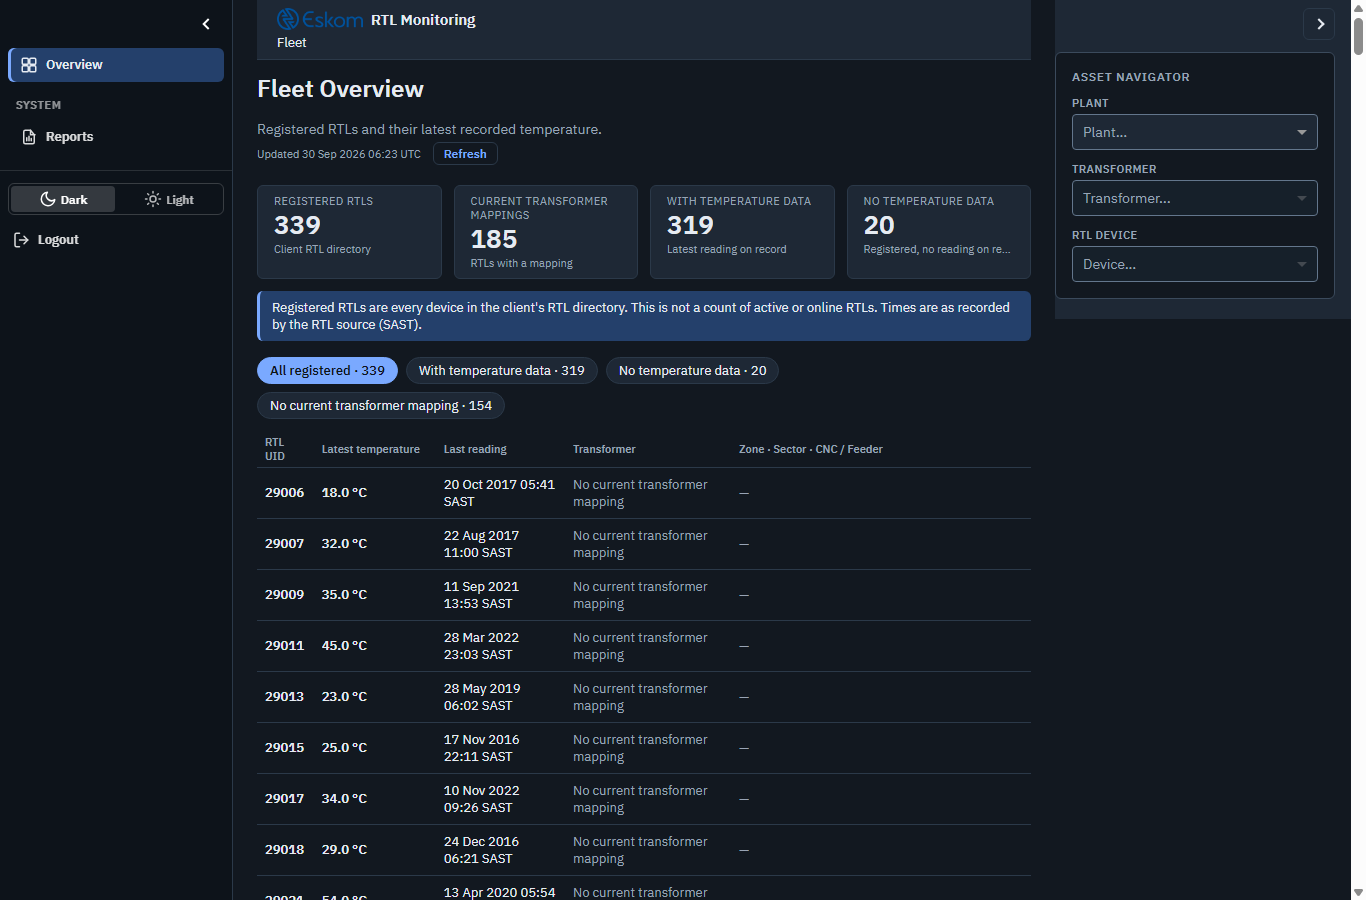
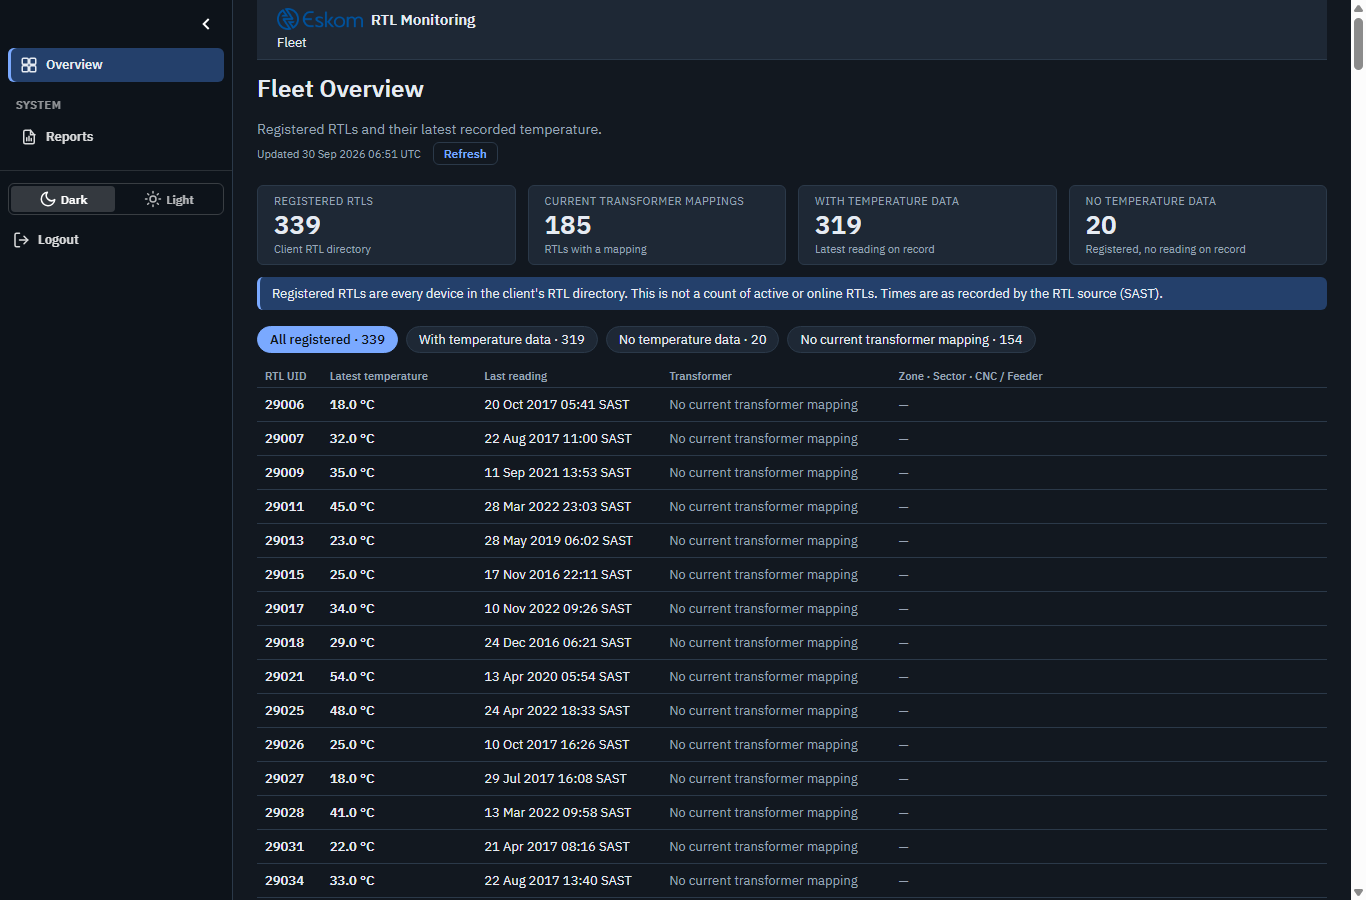
docs(fleet): close real RTL fleet acceptance

Changed region(s): [[0.1845, 0.1244, 0.9839, 1.0], [0.7687, 0.0622, 0.8917, 0.1244], [0.9839, 0.0622, 1.0, 0.0933]]

diff --git a/docs/audit/saturday-real-fleet-01/FLEET_ACCEPTANCE.md b/docs/audit/saturday-real-fleet-01/FLEET_ACCEPTANCE.md
@@ -3,6 +3,16 @@
 Date: 2026-09-30 · Baseline `d0ff59e` · Viewport 1366×900 · Local app against the
 restored client `RTL` SQL Server (`rtl_app_reader`, SELECT only).
 
+## Correction note (closure re-run)
+
+The first commit of this note (`eec92e4`) shipped `fleet-1366-general.png`
+captured BEFORE the Asset Navigator was hidden on `/plants`; that screenshot
+still showed the synthetic Plant / Transformer / Device navigator and so
+contradicted the note and the code. It was stale. The closure re-run below was
+performed on `eec92e4` code (fresh app process, General User, 1366×900) and the
+screenshot was replaced. The other three screenshots were captured after the
+navigator fix and are unchanged.
+
 ## What the page shows
 
 `/plants` (route unchanged) lists the registered client RTL directory:
@@ -29,6 +39,16 @@ metrics. Source times are naive SAST values shown unconverted.
 | No current transformer mapping | 154 | 154 |
 | Mapped RTLs with hierarchy unavailable | 7 (service) | 7 |
 | Ambiguous latest temperatures | 0 | 0 in current snapshot |
+
+Closure re-run (commit `eec92e4`, General User `demo.general01`, 1366×900):
+339 table rows; cards 339 / 185 / 319 / 20; chips All 339 · With temperature 319
+· No temperature data 20 · No current transformer mapping 154; 20 rows read
+"No temperature data" and 154 read "No current transformer mapping"; the
+utility column (Asset Navigator) is hidden; forbidden-word scan (plant, voltage,
+current, active/reactive power, power factor, frequency, energy, offline, null,
+undefined, NaN) found nothing; "online" occurs once, only in the negating note
+"This is not a count of active or online RTLs."; no email/phone/password/API-key
+patterns in any row; browser console 0 errors (1 pre-existing warning).
 
 Fleet load time: ~0.4 s (4 SELECT round trips; latest read batched).
 
@@ -67,6 +87,17 @@ Rationale: there is no approved raw-client-UID-to-technician-assignment map
 - Counts unchanged: `master_temperature` 2,456,901 · telemetry UIDs 400 ·
   `device_list` 339 · `trfr_list` 185.
 - No PostgreSQL schema, Alembic or seed change.
+
+## Regression (closure run)
+
+`python -m pytest -m "not db"` → **3221 passed, 3 skipped, 0 failed, 731
+deselected** in 34.73 s (3,224 selected). Focused fleet/route/colour suites: 105
+passed.
+
+Seven DB-marked PostgreSQL tests (`test_seed_integrity` ×5,
+`test_plant_monitoring_repository` range ×2) fail on local simulator/data drift
+(1,551,454 `readings` rows vs the 1,383,360 seed). Independently classified as
+unrelated to this gate; PostgreSQL was deliberately not reseeded or modified.
 
 ## Deferred (not in this gate)
 

diff --git a/docs/context/CURRENT_STATE.md b/docs/context/CURRENT_STATE.md
@@ -1,7 +1,7 @@
 # Current State
 
 Status: generated
-Date: 2026-09-30T06:27:48Z
+Date: 2026-09-30T06:53:13Z
 
 Regenerate with `python scripts/build_context_pack.py`. Never hand-edit —
 every fact here is derived from git, the test suite, and docs/decisions/.
@@ -12,12 +12,12 @@ Before any work involving the client RTL SQL Server, read `docs/database/CLIENT_
 
 ## Baseline
 
-- `main` = `d0ff59e` "docs(database): consolidate client SQL Server evidence"
-- Working tree: 16 entries — see below
+- `main` = `eec92e4` "feat(fleet): integrate real RTL fleet overview"
+- Working tree: 7 entries — see below
 
 ## Test baseline
 
-- `python -m pytest -m "not db"` → 3221 passed, 3 skipped, 731 deselected in 34.72s
+- `python -m pytest -m "not db"` → 3221 passed, 3 skipped, 731 deselected in 35.03s
 
 ## Branches
 
@@ -71,9 +71,9 @@ Diverged from `main` (has commits `main` doesn't):
 
 | Branch | Unique commits | Behind main | Note |
 |---|---|---|---|
-| `cc-1-command-center-progress` | 15 | 481 | REVIEW — unexpected divergence |
-| `client-demo-1` | 7 | 331 | expected — delivery branch, see docs/CLIENT_DELIVERY.md |
-| `client-release` | 12 | 481 | expected — delivery branch, see docs/CLIENT_DELIVERY.md |
+| `cc-1-command-center-progress` | 15 | 482 | REVIEW — unexpected divergence |
+| `client-demo-1` | 7 | 332 | expected — delivery branch, see docs/CLIENT_DELIVERY.md |
+| `client-release` | 12 | 482 | expected — delivery branch, see docs/CLIENT_DELIVERY.md |
 
 ## Decisions
 
@@ -119,20 +119,11 @@ SATURDAY-REAL-FLEET-01 — Real RTL Fleet Overview — full detail in `docs/cont
 
 ```
 D "DEM-2788838 Digital Incubator - RTL PAD  v0.7.pdf"
- M callbacks/fleet_overview.py
- M callbacks/navigation.py
+ M docs/audit/saturday-real-fleet-01/FLEET_ACCEPTANCE.md
+ M docs/audit/saturday-real-fleet-01/fleet-1366-general.png
  M docs/context/ACTIVE_GATE.md
- M pages/plants_overview.py
- M repositories/rtl_temperature_repository.py
- M tests/test_fleet_overview_page.py
- M tests/test_status_colors.py
- M tests/test_utility_route_visibility.py
 ?? .test-tmp/
 ?? "Remote Temperature Logger  Functional Specification RTL v0.md"
-?? components/rtl_fleet.py
 ?? docs/audit/project-audit-1/results/
-?? docs/audit/saturday-real-fleet-01/
-?? services/rtl_fleet_service.py
-?? tests/test_rtl_fleet.py
 ```
 

diff --git a/docs/context/ACTIVE_GATE.md b/docs/context/ACTIVE_GATE.md
@@ -1,6 +1,6 @@
 # Active Gate
 
-Status: **IMPLEMENTED — VERIFIED (awaiting next gate definition)**
+Status: **CLOSED / PASS (awaiting next gate definition)**
 Date: 2026-09-30
 Gate: SATURDAY-REAL-FLEET-01 — Real RTL Fleet Overview
 Baseline: `d0ff59e`
@@ -32,7 +32,7 @@ Audit deliverables: `docs/audit/sqlserver-target-arch-01/`.
 
 ## Next implementation gate: SATURDAY-REAL-FLEET-01 — Real RTL Fleet Overview
 
-Status: **IMPLEMENTED — VERIFIED**
+Status: **CLOSED / PASS**
 
 Replace the synthetic Fleet Overview data path (`/plants`) with a factual,
 read-only view of the client RTL SQL Server. **No SQL Server write capability
@@ -95,10 +95,14 @@ without hierarchy, 0 ambiguous latest values. SQL Server stayed `READ_ONLY`
 `trfr_list` 185). No PostgreSQL schema change. The shell's synthetic
 Plant/Transformer/Device navigator is hidden on `/plants`.
 
-Known unrelated environment failures in the DB-marked suite (local PostgreSQL
-carries live-simulator rows beyond the 1,383,360-row seed): `test_seed_integrity`
-(5) and `test_plant_monitoring_repository` range tests (2). They read only
-PostgreSQL and are untouched by this gate.
+Closure re-run on `eec92e4`: browser acceptance repeated (the first
+`fleet-1366-general.png` was stale and was replaced); non-DB suite 3221 passed,
+3 skipped, 0 failed, 731 deselected; SQL Server READ_ONLY with counts unchanged.
+
+Seven DB-marked PostgreSQL failures (`test_seed_integrity` ×5,
+`test_plant_monitoring_repository` range ×2) are pre-existing local
+simulator/data drift (1,551,454 `readings` rows vs the 1,383,360 seed) — not
+gate failures. PostgreSQL was not reseeded or modified.
 
 ## SQLSERVER-EVIDENCE-CONSOLIDATION-11 — CLOSED / PASS
 
